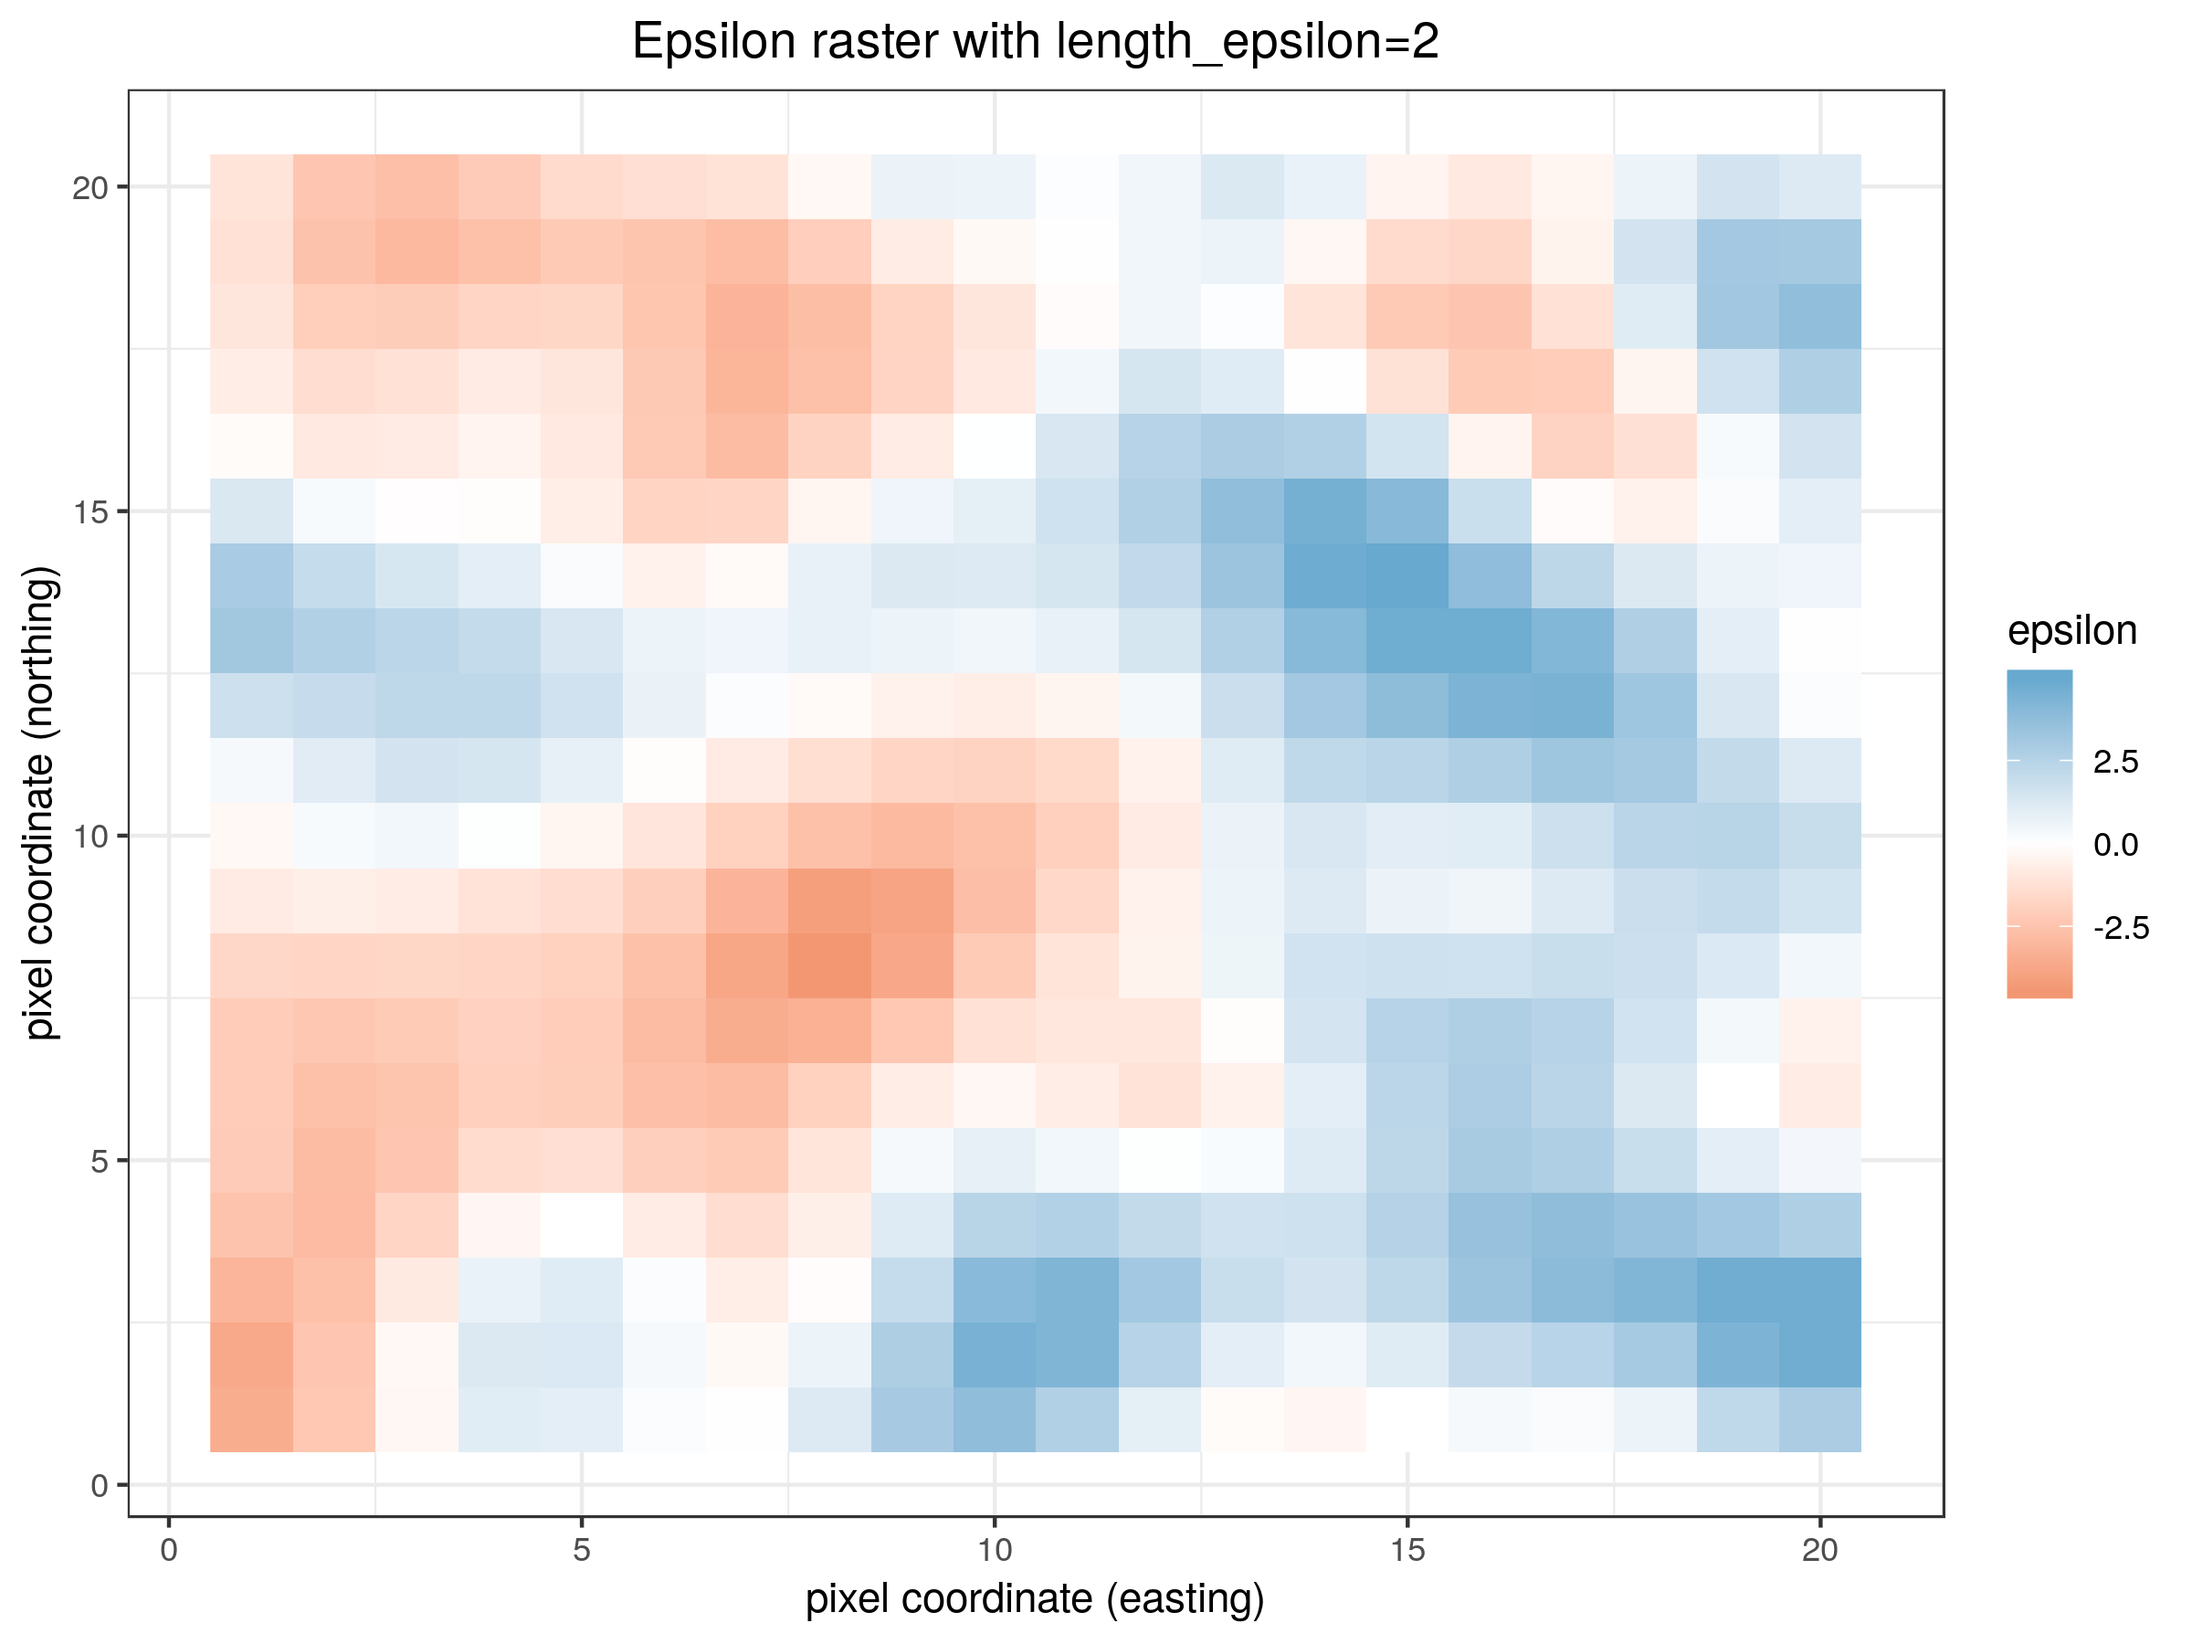
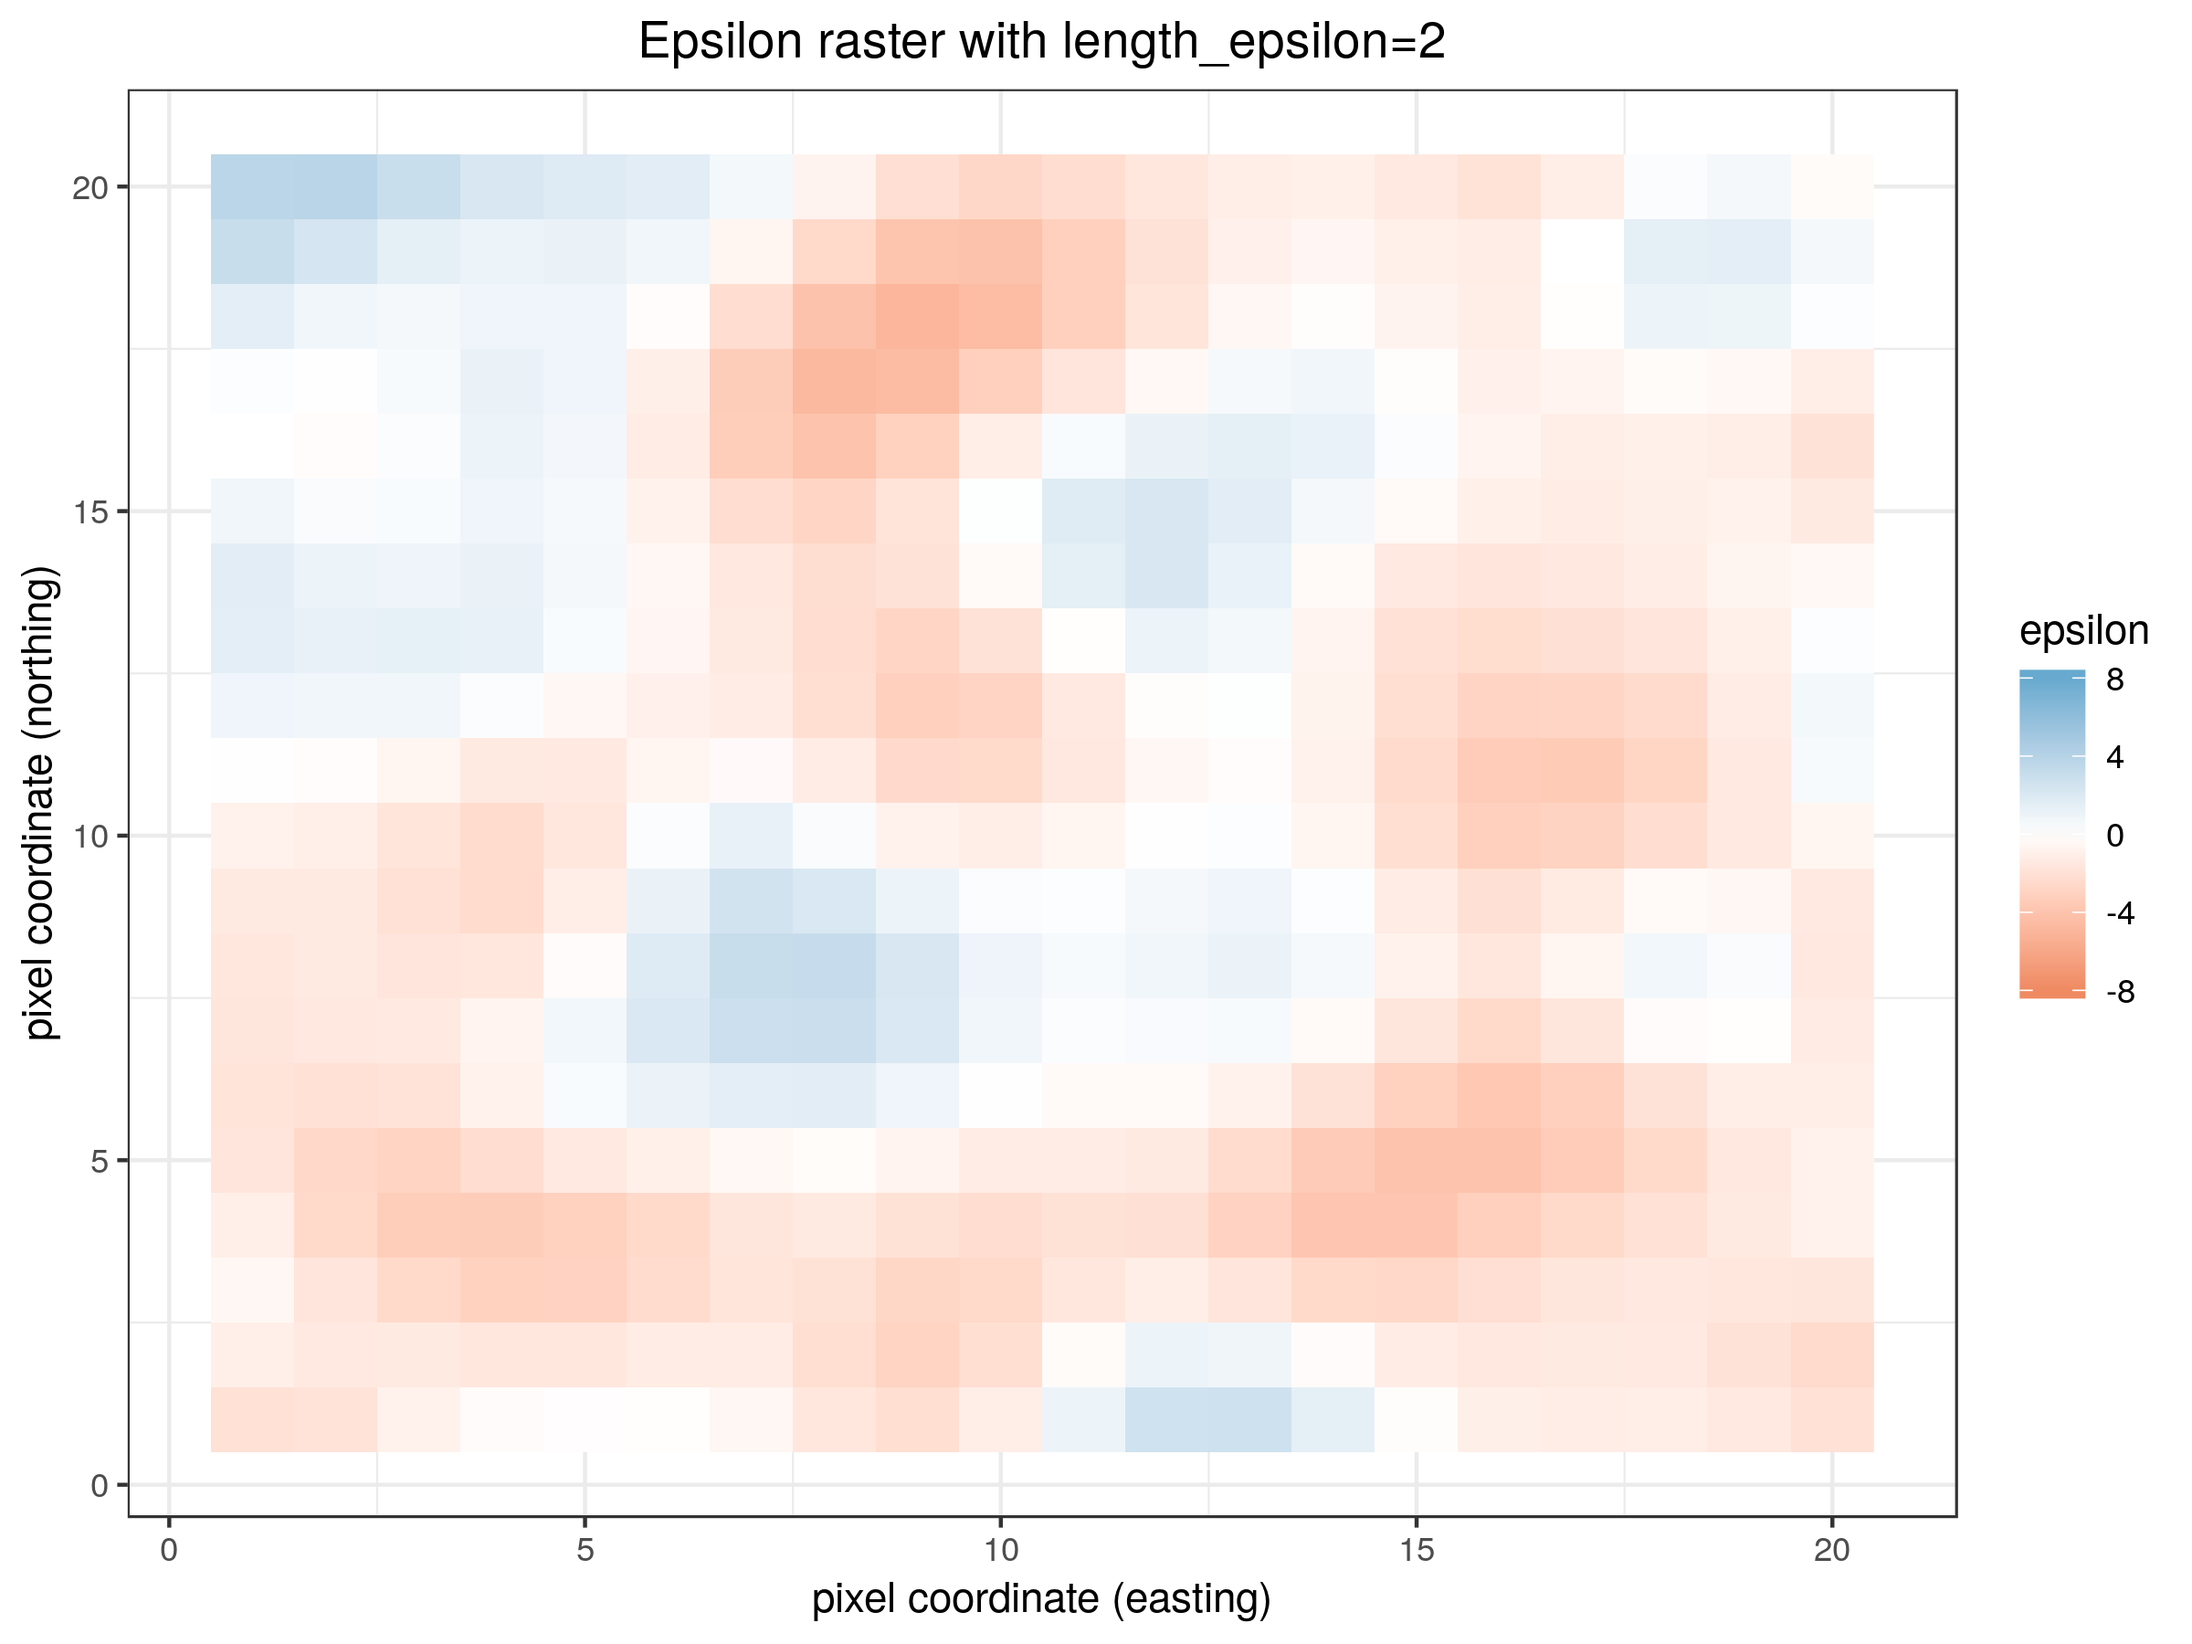
Show epsilon raster with high and low spatial correlation

diff --git a/README.md b/README.md
@@ -10,7 +10,9 @@ Related:
  - https://voxeu.org/article/standard-errors-persistence
  - https://papers.ssrn.com/sol3/papers.cfm?abstract_id=3398303
 
-![Epsilon map / raster](map_epsilon_single_simulation_length_epsilon_2.png)
+![Epsilon raster high spatial correlation](map_epsilon_single_simulation_length_epsilon_2.png)
+
+![Epsilon raster low spatial correlation](map_epsilon_single_simulation_length_epsilon_0.25.png)
 
 ![Sampling Distribution](sampling_distribution_beta_x1_with_varying_levels_of_spatial_correlation.png)
 
